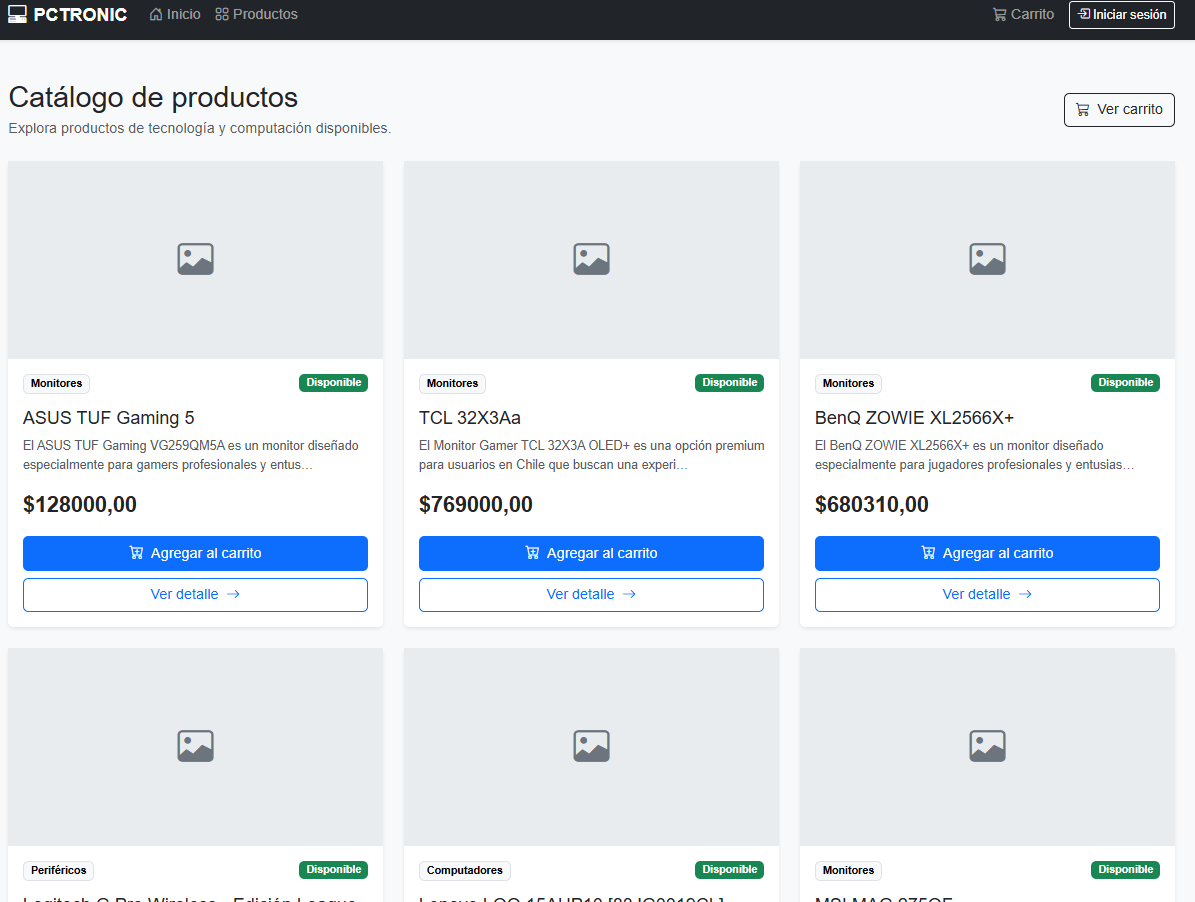
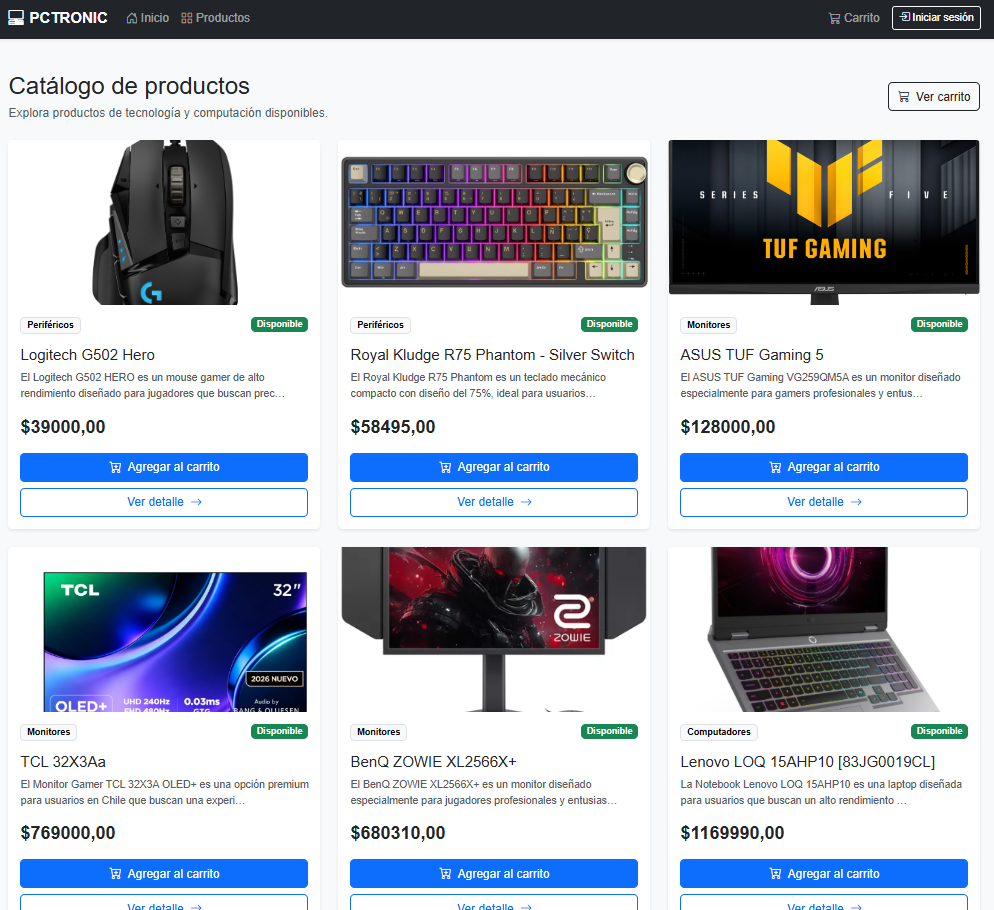
docs: Se modifican capturas de evidencia(faltaban las imágenes de los productos)

diff --git a/README.md b/README.md
@@ -1,9 +1,8 @@
-# PCTRONIC - E-commerce de Tecnología y Computación
+# DESARROLLO DE PORTAFOLIO DE UN PRODUCTO DIGITAL  
 ## Tabla de contenidos
 
 - [Descripción del proyecto](#descripción-del-proyecto)
 - [Tecnologías utilizadas](#tecnologías-utilizadas)
-- [Funcionalidades principales](#funcionalidades-principales)
 - [Modelo de datos](#modelo-de-datos)
 - [Rutas principales](#rutas-principales)
 - [Instalación y ejecución](#instalación-y-ejecución)
@@ -135,8 +134,6 @@ cd Modulo-8-E-commerce-ProyectoFinal
 Reemplaza `URL_DEL_REPOSITORIO` y `NOMBRE_DEL_PROYECTO` por los datos reales del repositorio.
 
 ### 2. Crear y activar entorno virtual
-
-En Windows:
 
 ```bash
 python -m venv venv